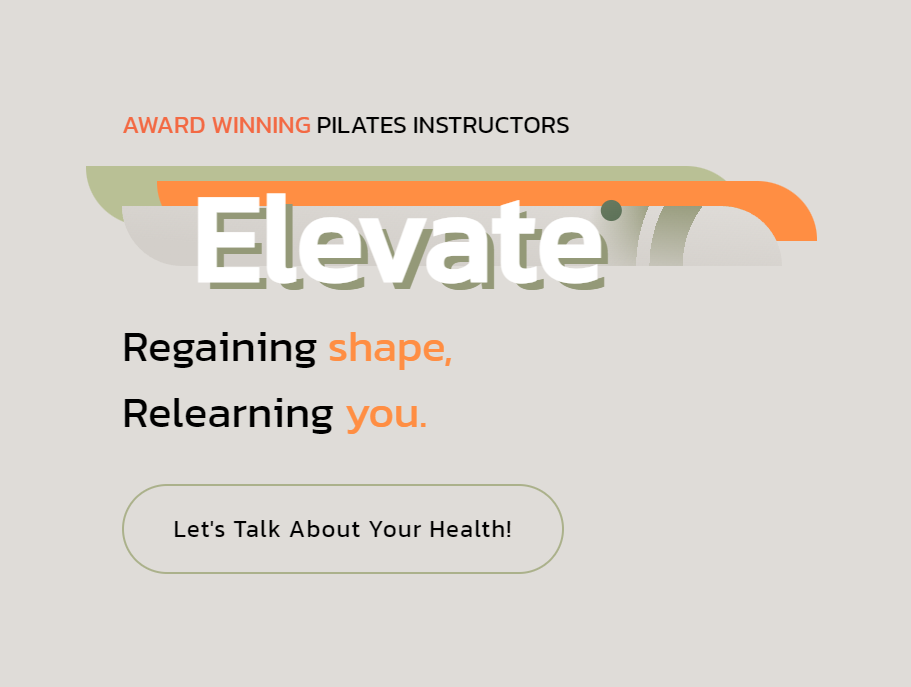
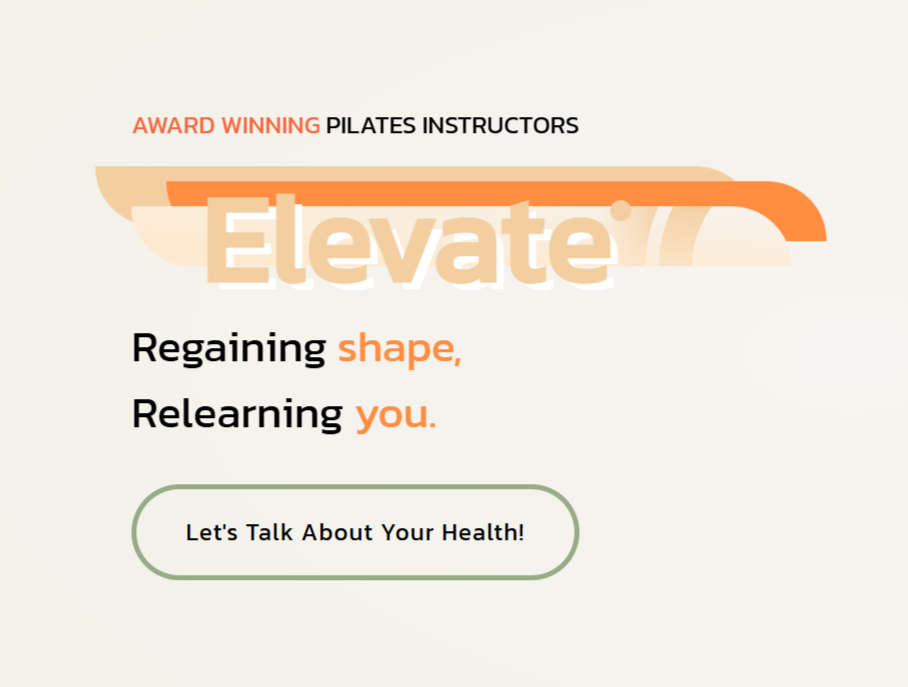
merged techStack fix & updated Elevate's project card

diff --git a/src/Projects.jsx b/src/Projects.jsx
@@ -21,7 +21,7 @@ const Projects = () => {
                     <div className='projects-grid'>
                         <div className='pro pro__1'>
                             <a className='imgLink' href='https://elevate-pilates.netlify.app/' target='_blank' rel='noreferrer'>
-                                <div className='pro__img' style={{backgroundColor: '#DFDCD8'}}>
+                                <div className='pro__img' style={{backgroundColor: '#f6f3ec'}}>
                                     <img style={{border: 'transparent', overflow: 'auto', position: 'relative', top: '-20px'}} src={Elevate} alt='Elevate snapshot'/>
                                 </div>
                             </a>
